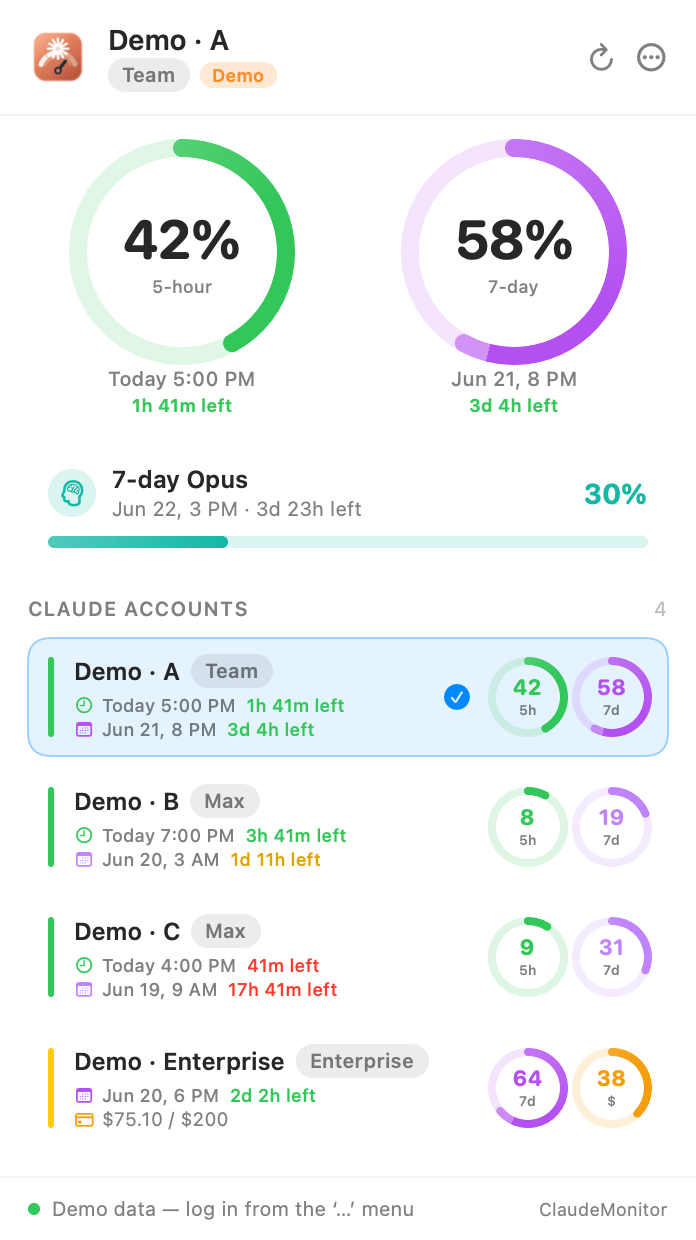
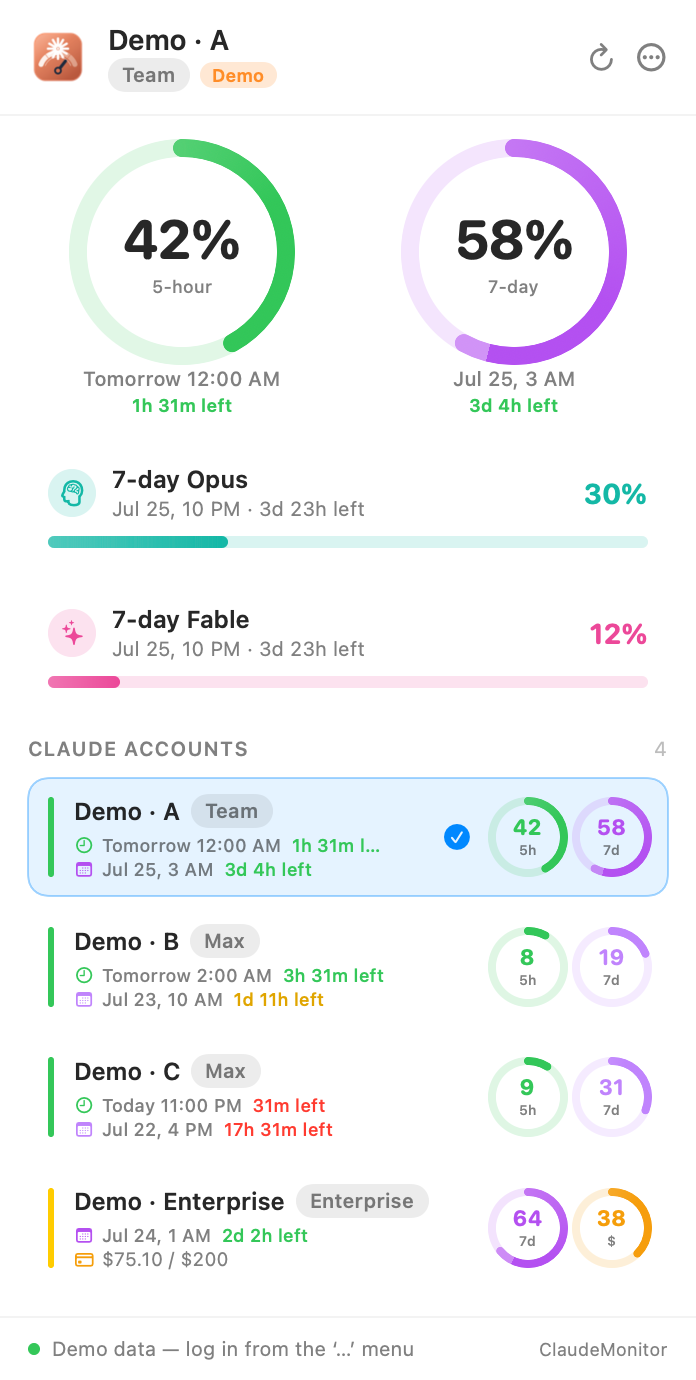
feat: show Fable 7-day usage (seven_day_fable)
Adds Fable to the per-model 7-day limits alongside Opus/Sonnet.

- Models: decode `seven_day_fable` in UsageAPIResponse; add `fable` to AccountUsage
- ClaudeAPI: parse fable (hidden when empty, same as opus/sonnet)
- UI: new "7-day Fable" LimitCard (pink, sparkles icon) in the popover
- Theme: add fableColor
- DemoData/README/preview PNGs updated; bump version to 0.1.5

The field is optional, so accounts without a Fable limit simply omit the card.

diff --git a/Sources/ClaudeMonitor/DemoData.swift b/Sources/ClaudeMonitor/DemoData.swift
@@ -44,28 +44,30 @@ enum DemoData {
                 fiveHour: LimitUsage(percentage: 42, resetsAt: at(2.5)),
                 sevenDay: LimitUsage(percentage: 58, resetsAt: at(24 * 3 + 5)),
                 opus: LimitUsage(percentage: 30, resetsAt: at(24 * 4)),
-                sonnet: nil, extra: nil)
+                sonnet: nil,
+                fable: LimitUsage(percentage: 12, resetsAt: at(24 * 4)),
+                extra: nil)
         case ids[1]: // 샘플 B (7일 1.5일 남음 → 노랑 데모)
             return AccountUsage(
                 fiveHour: LimitUsage(percentage: 8, resetsAt: at(3.8)),
                 sevenDay: LimitUsage(percentage: 19, resetsAt: at(36)),
-                opus: nil, sonnet: nil, extra: nil)
+                opus: nil, sonnet: nil, fable: nil, extra: nil)
         case ids[2]: // 샘플 C (5시간 곧/7일 18시간 남음 → 빨강 데모)
             return AccountUsage(
                 fiveHour: LimitUsage(percentage: 9, resetsAt: at(1.2)),
                 sevenDay: LimitUsage(percentage: 31, resetsAt: at(18)),
-                opus: nil, sonnet: nil, extra: nil)
+                opus: nil, sonnet: nil, fable: nil, extra: nil)
         case ids[3]: // 샘플 D (Enterprise + Extra Usage)
             return AccountUsage(
                 fiveHour: nil,
                 sevenDay: LimitUsage(percentage: 64, resetsAt: at(24 * 2 + 3)),
-                opus: nil, sonnet: nil,
+                opus: nil, sonnet: nil, fable: nil,
                 extra: ExtraUsage(enabled: true, used: 75.1, limit: 200, currencyCode: "USD"))
         default:
             return AccountUsage(
                 fiveHour: LimitUsage(percentage: 25, resetsAt: at(2)),
                 sevenDay: LimitUsage(percentage: 40, resetsAt: at(24 * 4)),
-                opus: nil, sonnet: nil, extra: nil)
+                opus: nil, sonnet: nil, fable: nil, extra: nil)
         }
     }
 }

diff --git a/Sources/ClaudeMonitor/Views/UsageSections.swift b/Sources/ClaudeMonitor/Views/UsageSections.swift
@@ -79,7 +79,7 @@ struct UsageSections: View {
 
     @ViewBuilder
     private var limitsSection: some View {
-        // 5시간/7일은 히어로 듀얼 링이 대신하므로, 여기선 Opus/Sonnet/Extra 만 카드로.
+        // 5시간/7일은 히어로 듀얼 링이 대신하므로, 여기선 Opus/Sonnet/Fable/Extra 만 카드로.
         let usage = state.activeUsage
         VStack(spacing: 8) {
             if let opus = usage?.opus {
@@ -87,6 +87,9 @@ struct UsageSections: View {
             }
             if let sonnet = usage?.sonnet {
                 LimitCard(icon: "waveform", title: L.s("7일 Sonnet", "7-day Sonnet"), limit: sonnet, color: Theme.sonnetColor)
+            }
+            if let fable = usage?.fable {
+                LimitCard(icon: "sparkles", title: L.s("7일 Fable", "7-day Fable"), limit: fable, color: Theme.fableColor)
             }
             if let extra = usage?.extra, extra.enabled {
                 extraCard(extra)

diff --git a/Sources/ClaudeMonitor/Models/Models.swift b/Sources/ClaudeMonitor/Models/Models.swift
@@ -65,6 +65,7 @@ struct UsageAPIResponse: Codable, Sendable {
     let seven_day: LimitUsage?
     let seven_day_opus: LimitUsage?
     let seven_day_sonnet: LimitUsage?
+    let seven_day_fable: LimitUsage?
     let extra_usage: EmbeddedExtraUsage?
 
     struct LimitUsage: Codable, Sendable {
@@ -100,7 +101,7 @@ struct APIErrorResponse: Codable, Sendable {
 
 // MARK: - 앱 내부 정규화 모델
 
-/// 단일 한도(5시간/7일/Opus/Sonnet)의 사용량
+/// 단일 한도(5시간/7일/Opus/Sonnet/Fable)의 사용량
 struct LimitUsage: Sendable, Equatable {
     /// 사용률 0~100
     let percentage: Double
@@ -148,6 +149,7 @@ struct AccountUsage: Sendable, Equatable {
     let sevenDay: LimitUsage?
     let opus: LimitUsage?
     let sonnet: LimitUsage?
+    let fable: LimitUsage?
     let extra: ExtraUsage?
 
     /// 메뉴바/요약에 쓸 대표 한도 (5시간 우선, 없으면 7일)

diff --git a/Sources/ClaudeMonitor/Services/ClaudeAPI.swift b/Sources/ClaudeMonitor/Services/ClaudeAPI.swift
@@ -4,7 +4,7 @@
 //
 //  Claude.ai 비공식 웹 API 클라이언트.
 //  - GET /api/organizations                       → 조직 목록
-//  - GET /api/organizations/{uuid}/usage          → 5시간/7일/Opus/Sonnet 한도
+//  - GET /api/organizations/{uuid}/usage          → 5시간/7일/Opus/Sonnet/Fable 한도
 //  - GET /api/organizations/{uuid}/overage_spend_limit → Extra Usage(추가 결제)
 //
 //  Cloudflare 봇 차단(managed challenge)을 피하려고, 정적 헤더 대신 실제 WebKit 엔진
@@ -112,6 +112,7 @@ actor ClaudeAPI {
             sevenDay: parseLimit(decoded.seven_day),
             opus: parseLimit(decoded.seven_day_opus, hideWhenEmpty: true),
             sonnet: parseLimit(decoded.seven_day_sonnet, hideWhenEmpty: true),
+            fable: parseLimit(decoded.seven_day_fable, hideWhenEmpty: true),
             extra: extra
         )
     }

diff --git a/Sources/ClaudeMonitor/Views/Theme.swift b/Sources/ClaudeMonitor/Views/Theme.swift
@@ -31,6 +31,8 @@ enum Theme {
     static let opusColor = Color(hex: 0x14B8A6)
     /// Sonnet 색상 (인디고)
     static let sonnetColor = Color(hex: 0x6366F1)
+    /// Fable 색상 (핑크)
+    static let fableColor = Color(hex: 0xEC4899)
     /// Extra Usage 색상 (앰버)
     static let extraColor = Color(hex: 0xF59E0B)
 

diff --git a/README.md b/README.md
@@ -10,7 +10,7 @@
 </p>
 
 <p align="center">
-  Track usage for <b>multiple Claude accounts</b> right from the macOS menu bar — 5-hour / 7-day limits, Opus·Sonnet limits, and Extra Usage ($), per account, with quick switching.
+  Track usage for <b>multiple Claude accounts</b> right from the macOS menu bar — 5-hour / 7-day limits, Opus·Sonnet·Fable limits, and Extra Usage ($), per account, with quick switching.
 </p>
 
 <p align="center">
@@ -28,7 +28,7 @@
 ## Features
 
 - 📊 Menu-bar label with the active account's 5h / 7d usage in color
-- 🎯 Popover: dual ring gauges (5-hour + 7-day) with reset time and remaining time, plus Opus/Sonnet/Extra cards
+- 🎯 Popover: dual ring gauges (5-hour + 7-day) with reset time and remaining time, plus Opus/Sonnet/Fable/Extra cards
 - 👥 Multi-account / multi-org: every organization reachable by one session key is registered automatically; switch with a tap
 - ⏱ Remaining-time colors: 5h → red under 1 hour; 7d → red under 1 day, gold under 2 days, else green
 - 🌐 Built-in browser (WKWebView) login auto-extracts the session key; manual paste also supported
@@ -61,7 +61,7 @@ Requires macOS 14+ and a Swift 6 toolchain (Xcode 16).
 | Endpoint | Purpose |
 |---|---|
 | `GET /api/organizations` | Organizations reachable by the session |
-| `GET /api/organizations/{uuid}/usage` | `five_hour` / `seven_day` / `seven_day_opus` / `seven_day_sonnet` (utilization, resets_at) |
+| `GET /api/organizations/{uuid}/usage` | `five_hour` / `seven_day` / `seven_day_opus` / `seven_day_sonnet` / `seven_day_fable` (utilization, resets_at) |
 | `GET /api/organizations/{uuid}/overage_spend_limit` | Extra Usage (overage spend) |
 
 Auth: `Cookie: sessionKey=sk-ant-...` plus browser-mimicking headers (`anthropic-client-platform`, `origin`, `referer`, `sec-fetch-*`) to pass Cloudflare.
